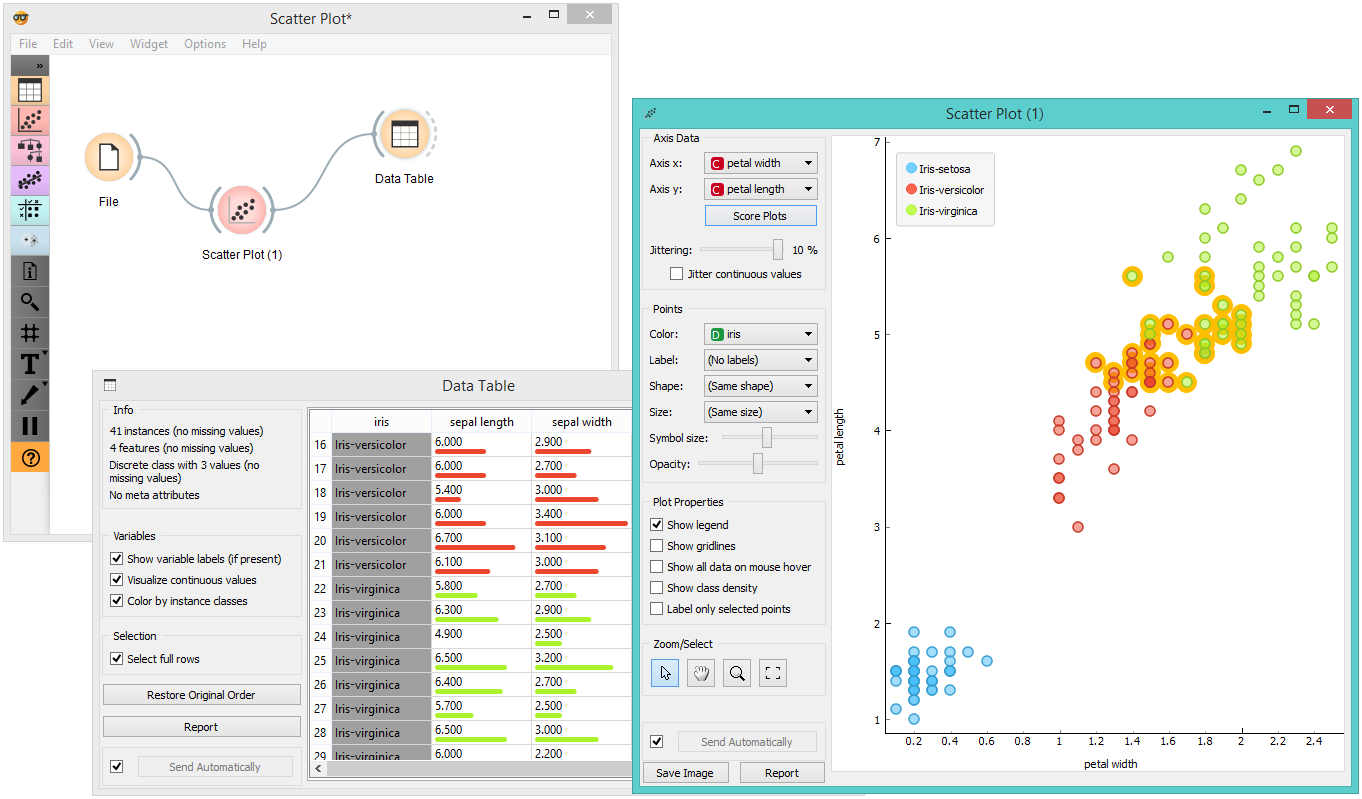
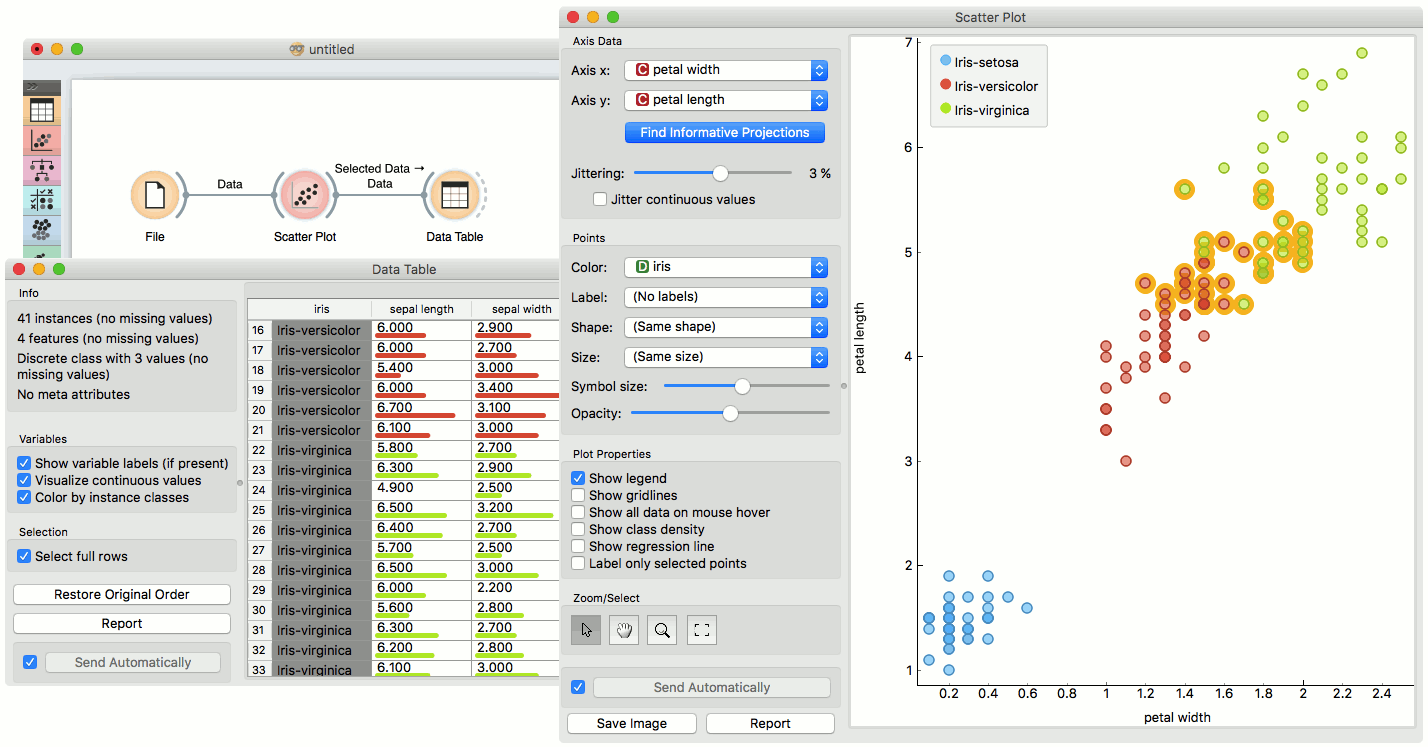
OWScatterPlot: Add regression line

diff --git a/Orange/widgets/visualize/owscatterplotgraph.py b/Orange/widgets/visualize/owscatterplotgraph.py
@@ -3,6 +3,7 @@ from xml.sax.saxutils import escape
 from math import log10, floor, ceil
 
 import numpy as np
+from scipy.stats import linregress
 
 from AnyQt.QtCore import Qt, QObject, QEvent, QRectF, QPointF, QSize
 from AnyQt.QtGui import (
@@ -15,6 +16,7 @@ import pyqtgraph.graphicsItems.ScatterPlotItem
 from pyqtgraph.graphicsItems.LegendItem import LegendItem, ItemSample
 from pyqtgraph.graphicsItems.ScatterPlotItem import ScatterPlotItem
 from pyqtgraph.graphicsItems.TextItem import TextItem
+from pyqtgraph.graphicsItems.InfiniteLine import InfiniteLine
 from pyqtgraph.Point import Point
 
 
@@ -474,6 +476,7 @@ class OWScatterPlotGraph(gui.OWComponent, ScaleScatterPlotData):
     show_legend = Setting(True)
     tooltip_shows_all = Setting(False)
     class_density = Setting(False)
+    show_reg_line = Setting(False)
     resolution = 256
 
     CurveSymbols = np.array("o x t + d s ?".split())
@@ -495,6 +498,7 @@ class OWScatterPlotGraph(gui.OWComponent, ScaleScatterPlotData):
         self.density_img = None
         self.scatterplot_item = None
         self.scatterplot_item_sel = None
+        self.reg_line_item = None
 
         self.labels = []
 
@@ -551,6 +555,7 @@ class OWScatterPlotGraph(gui.OWComponent, ScaleScatterPlotData):
         self.density_img = None
         self.scatterplot_item = None
         self.scatterplot_item_sel = None
+        self.reg_line_item = None
         self.labels = []
         self.selection = None
         self.valid_data = None
@@ -570,6 +575,9 @@ class OWScatterPlotGraph(gui.OWComponent, ScaleScatterPlotData):
         if self.scatterplot_item_sel:
             self.plot_widget.removeItem(self.scatterplot_item_sel)
             self.scatterplot_item_sel = None
+        if self.reg_line_item:
+            self.plot_widget.removeItem(self.reg_line_item)
+            self.reg_line_item = None
         for label in self.labels:
             self.plot_widget.removeItem(label)
         self.labels = []
@@ -653,9 +661,28 @@ class OWScatterPlotGraph(gui.OWComponent, ScaleScatterPlotData):
         self.scatterplot_item.selected_points = []
         self.scatterplot_item.sigClicked.connect(self.select_by_click)
 
+        self.draw_regression_line(x_data, y_data, min_x, max_x)
         self.update_labels()
         self.make_legend()
         self.plot_widget.replot()
+
+    def draw_regression_line(self, x_data, y_data, min_x, max_x):
+        if self.show_reg_line and self.can_draw_regresssion_line():
+            slope, intercept, _, _, _ = linregress(x_data, y_data)
+            start_y = min_x * slope + intercept
+            end_y = max_x * slope + intercept
+            angle = np.degrees(np.arctan((end_y - start_y) / (max_x - min_x)))
+            rotate = ((angle + 45) % 180) - 45 > 90
+            color = QColor("#505050")
+            l_opts = dict(color=color, position=abs(int(rotate) - 0.85),
+                          rotateAxis=(1, 0), movable=True)
+            self.reg_line_item = InfiniteLine(
+                pos=QPointF(min_x, start_y), pen=pg.mkPen(color=color, width=1),
+                angle=angle, label="r = {:.2f}".format(slope), labelOpts=l_opts)
+            if rotate:
+                self.reg_line_item.label.angle = 180
+                self.reg_line_item.label.updateTransform()
+            self.plot_widget.addItem(self.reg_line_item)
 
     def can_draw_density(self):
         return self.domain is not None and \
@@ -666,6 +693,11 @@ class OWScatterPlotGraph(gui.OWComponent, ScaleScatterPlotData):
 
     def should_draw_density(self):
         return self.class_density and self.n_points > 1 and self.can_draw_density()
+
+    def can_draw_regresssion_line(self):
+        return self.domain is not None and \
+               self.shown_x.is_continuous and \
+               self.shown_y.is_continuous
 
     def set_labels(self, axis, labels):
         axis = self.plot_widget.getAxis(axis)

diff --git a/Orange/widgets/visualize/owscatterplot.py b/Orange/widgets/visualize/owscatterplot.py
@@ -228,6 +228,9 @@ class OWScatterPlot(OWWidget):
         self.cb_class_density = gui.checkBox(
             box, self, value='graph.class_density', label='Show class density',
             callback=self.update_density)
+        self.cb_reg_line = gui.checkBox(
+            box, self, value='graph.show_reg_line',
+            label='Show regression line', callback=self.update_regression_line)
         gui.checkBox(
             box, self, 'graph.label_only_selected',
             'Label only selected points', callback=self.graph.update_labels)
@@ -415,6 +418,7 @@ class OWScatterPlot(OWWidget):
         self.attribute_selection_list = None
         self.update_graph()
         self.cb_class_density.setEnabled(self.graph.can_draw_density())
+        self.cb_reg_line.setEnabled(self.graph.can_draw_regresssion_line())
         self.unconditional_commit()
 
     def set_shown_attributes(self, attributes):
@@ -445,6 +449,7 @@ class OWScatterPlot(OWWidget):
     def update_attr(self):
         self.update_graph()
         self.cb_class_density.setEnabled(self.graph.can_draw_density())
+        self.cb_reg_line.setEnabled(self.graph.can_draw_regresssion_line())
         self.send_features()
 
     def update_colors(self):
@@ -452,6 +457,9 @@ class OWScatterPlot(OWWidget):
         self.cb_class_density.setEnabled(self.graph.can_draw_density())
 
     def update_density(self):
+        self.update_graph(reset_view=False)
+
+    def update_regression_line(self):
         self.update_graph(reset_view=False)
 
     def update_graph(self, reset_view=True, **_):

diff --git a/Orange/widgets/visualize/tests/test_owscatterplot.py b/Orange/widgets/visualize/tests/test_owscatterplot.py
@@ -117,3 +117,15 @@ class TestOWScatterPlot(WidgetTest, WidgetOutputsTestMixin):
         simulate.combobox_activate_item(self.widget.cb_attr_y, "a")
 
         self.widget.update_graph()
+
+    def test_regression_line(self):
+        """It is possible to draw the line only for pair of continuous attrs"""
+        self.send_signal("Data", self.data)
+        self.assertTrue(self.widget.cb_reg_line.isEnabled())
+        self.assertIsNone(self.widget.graph.reg_line_item)
+        self.widget.cb_reg_line.setChecked(True)
+        self.assertIsNotNone(self.widget.graph.reg_line_item)
+        self.widget.cb_attr_y.activated.emit(4)
+        self.widget.cb_attr_y.setCurrentIndex(4)
+        self.assertFalse(self.widget.cb_reg_line.isEnabled())
+        self.assertIsNone(self.widget.graph.reg_line_item)

diff --git a/doc/visual-programming/source/widgets/visualize/scatterplot.rst b/doc/visual-programming/source/widgets/visualize/scatterplot.rst
@@ -66,6 +66,7 @@ the left side of the widget. A snapshot below shows the scatterplot of the
    -  *Show gridlines* displays the grid behind the plot.
    -  *Show all data on mouse hover* enables information bubbles if the cursor is placed on a dot.
    -  *Show class density* colors the graph by class (see the screenshot below).
+   -  *Show regression line* draws the regression line for pair of continuous attributes.
    -  *Label only selected points* allows you to select individual data instances and label them. 
 
 4. *Select, zoom, pan and zoom to fit* are the options for exploring the graph.
@@ -88,7 +89,7 @@ the scatterplot would display only eight distinct points.
 .. figure:: images/Scatterplot-Titanic.png
 
 Here is an example of the **Scatter Plot** widget if the *Show class
-density* box is ticked.
+density* and *Show regression line* boxes are ticked.
 
 .. figure:: images/Scatterplot-ClassDensity.png
 
@@ -97,17 +98,17 @@ Intelligent Data Visualization
 
 If a data set has many attributes, it is impossible to manually scan
 through all the pairs to find interesting or useful scatterplots. Orange
-implements intelligent data visualization with the **Score Plots**
+implements intelligent data visualization with the **Find Informative Projections**
 option in the widget. The goal of optimization is to find scatterplot
 projections where instances are well separated.
 
-To use this method, go to the *Score Plots* option in the widget, open
+To use this method, go to the *Find Informative Projections* option in the widget, open
 the subwindow and press *Start Evaluation*. The feature will return a
 list of attribute pairs by average classification accuracy score.
 
 Below, there is an example demonstrating the utility of ranking. The
 first scatterplot projection was set as the default sepal width to sepal
-length plot (we used the Iris data set for simplicity). Upon running *Score Plots* optimization, the scatterplot converted to a much better
+length plot (we used the Iris data set for simplicity). Upon running *Find Informative Projections* optimization, the scatterplot converted to a much better
 projection of petal width to petal length plot.
 
 .. figure:: images/ScatterPlotExample-Ranking.png
